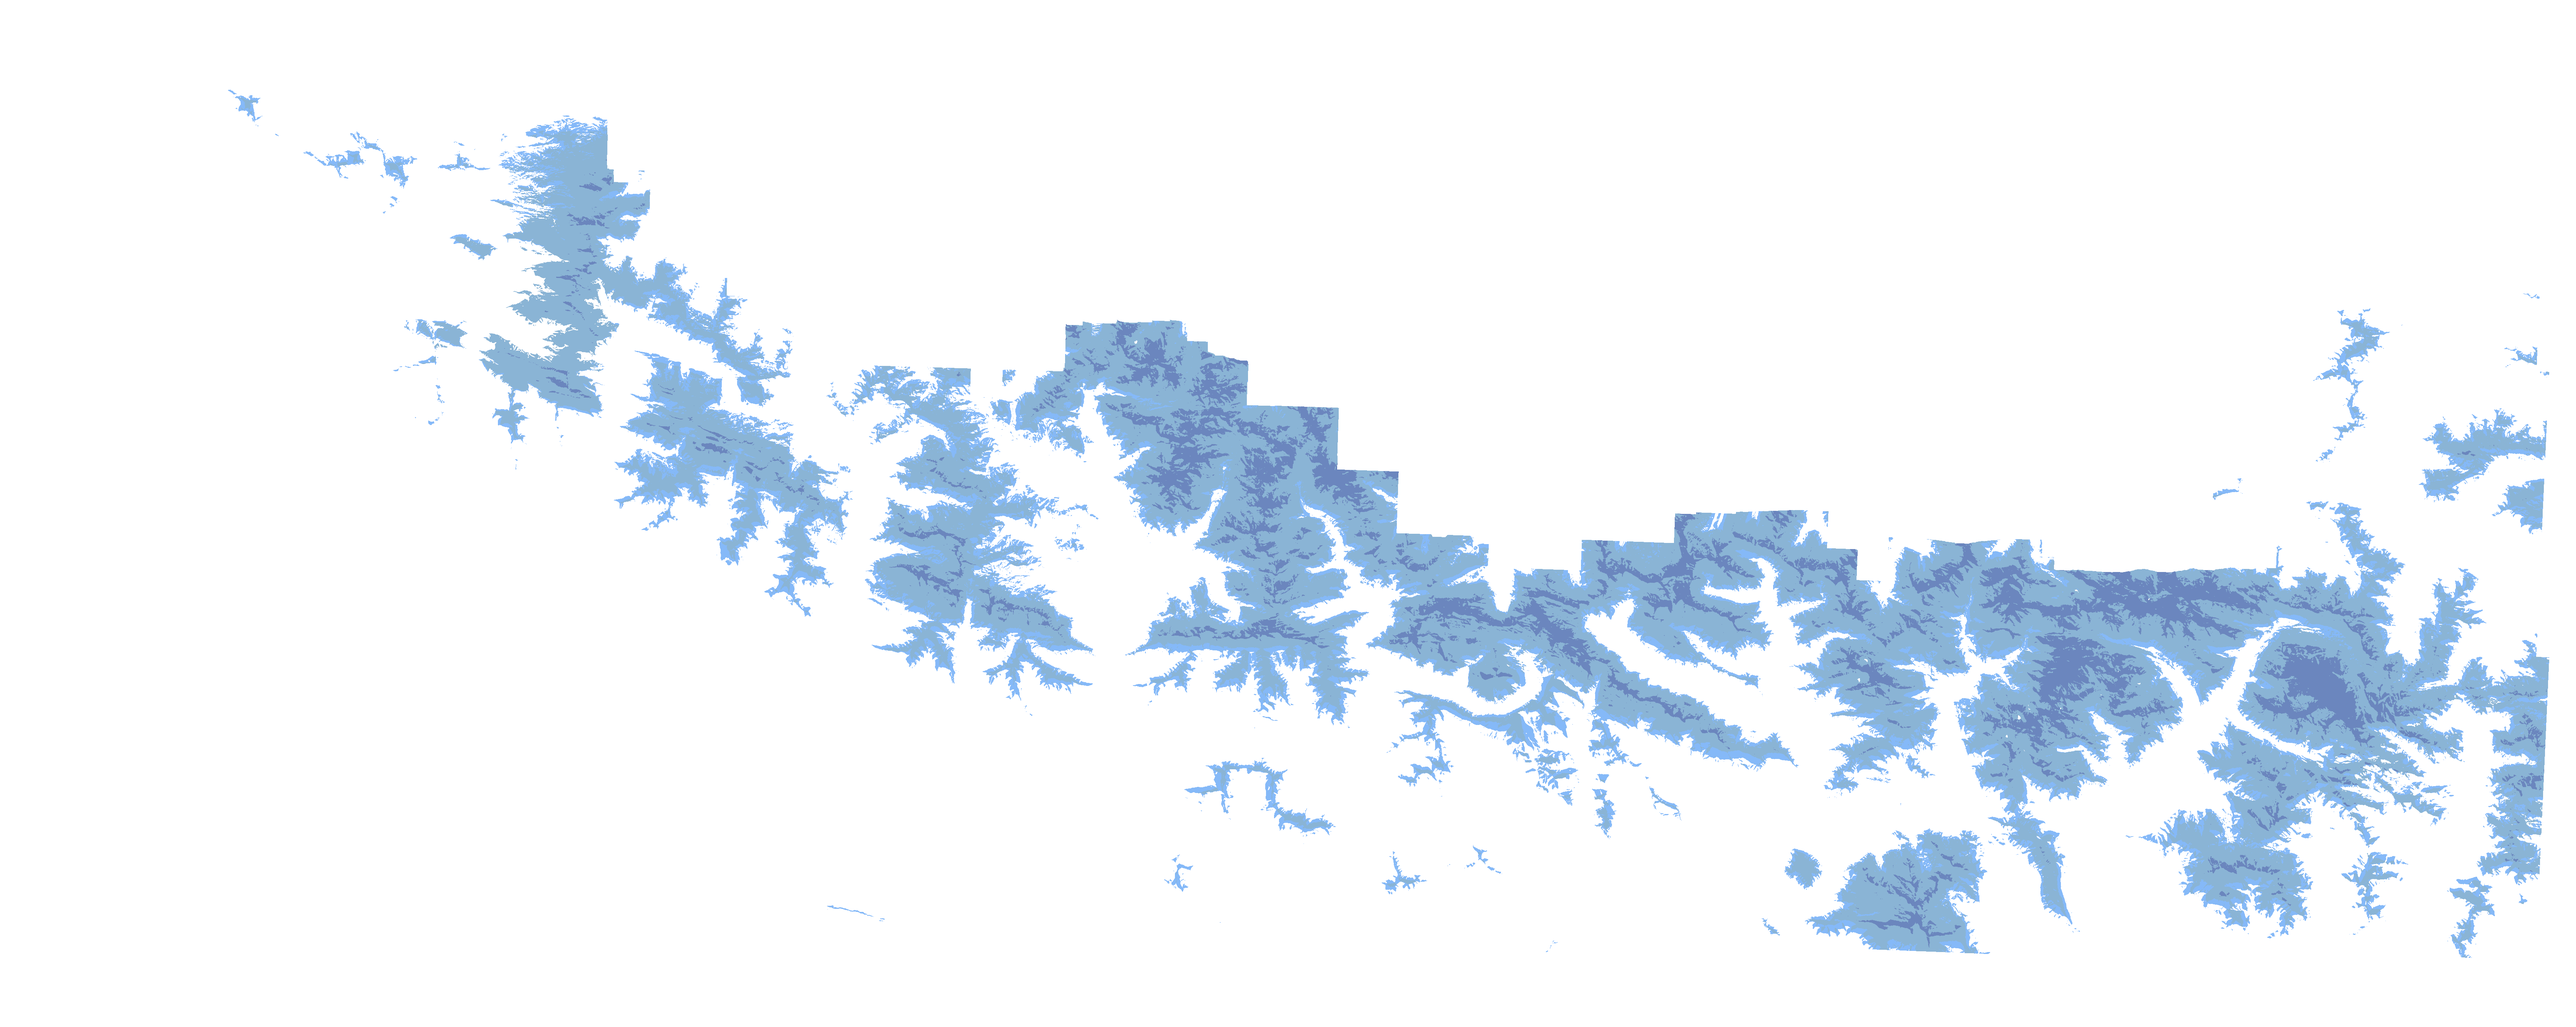
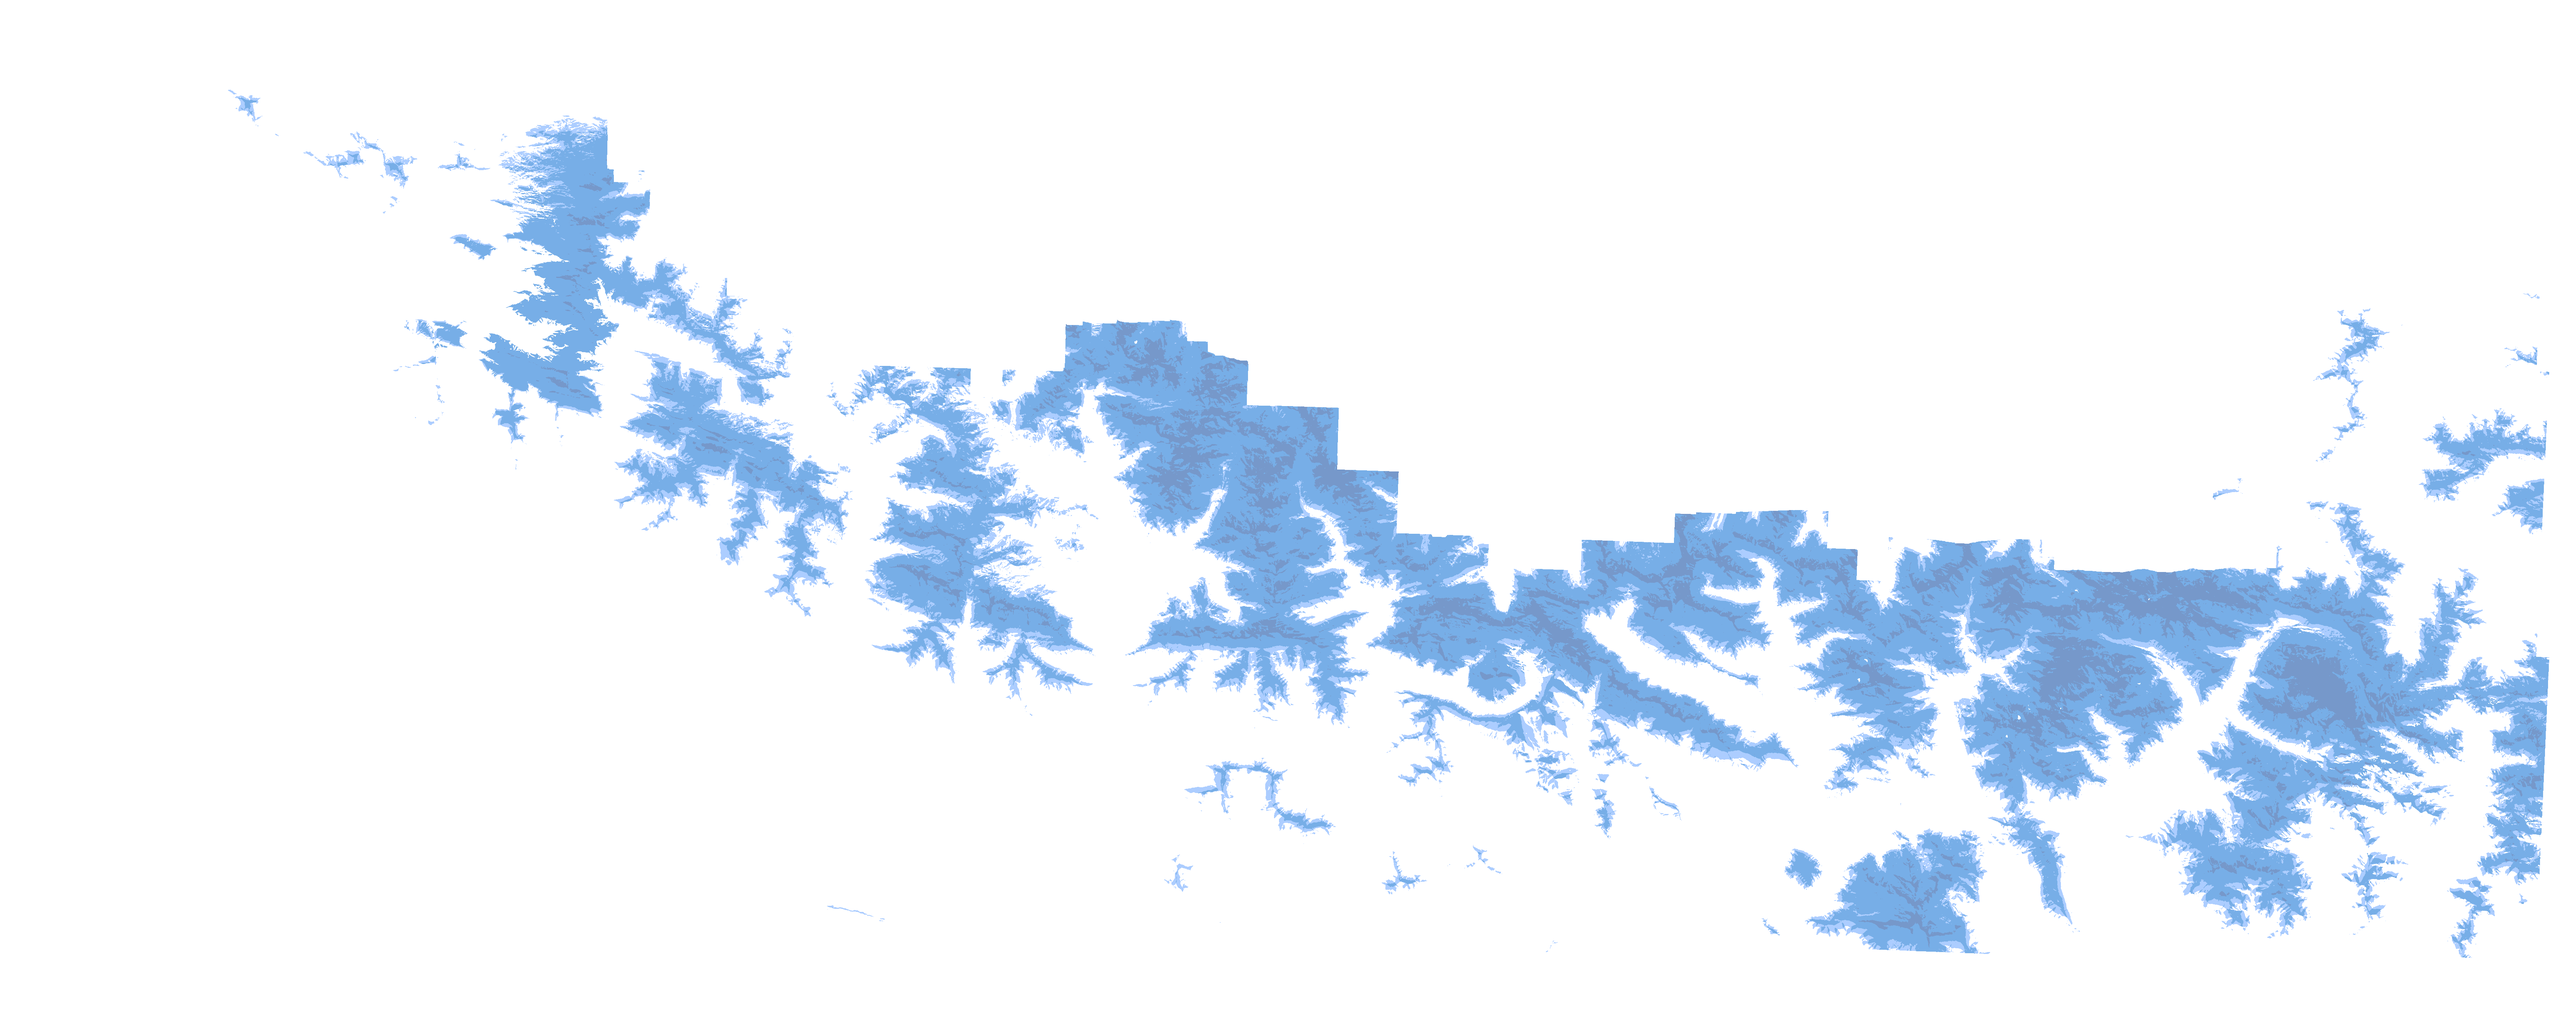
5nov bis

diff --git a/layers/layers.js b/layers/layers.js
@@ -22,10 +22,9 @@ var lyr_MapaEspesores5nov_1 = new ol.layer.Image({
         
     title: 'Mapa Espesores 5nov<br />\
     <img src="styles/legend/MapaEspesores5nov_1_0.png" /> 0<br />\
-    <img src="styles/legend/MapaEspesores5nov_1_1.png" /> 15 - 30<br />\
-    <img src="styles/legend/MapaEspesores5nov_1_2.png" /> 30 - 60<br />\
-    <img src="styles/legend/MapaEspesores5nov_1_3.png" /> 0- 15<br />\
-    <img src="styles/legend/MapaEspesores5nov_1_4.png" /> 60 - 100<br />' ,
+    <img src="styles/legend/MapaEspesores5nov_1_1.png" /> 0 - 2<br />\
+    <img src="styles/legend/MapaEspesores5nov_1_2.png" /> 2 - 10<br />\
+    <img src="styles/legend/MapaEspesores5nov_1_3.png" /> 10 - 20<br />' ,
         
         
         source: new ol.source.ImageStatic({

diff --git a/resources/qgis2web.js b/resources/qgis2web.js
@@ -12,7 +12,7 @@ var map = new ol.Map({
 });
 
 //initial view - epsg:3857 coordinates if not "Match project CRS"
-map.getView().fit([-38821.921730, 5251931.574896, 4838.013404, 5281089.466964], map.getSize());
+map.getView().fit([37526.278141, 5242079.353703, 81335.480849, 5271534.836703], map.getSize());
 
 //change cursor
 function pointerOnFeature(evt) {
